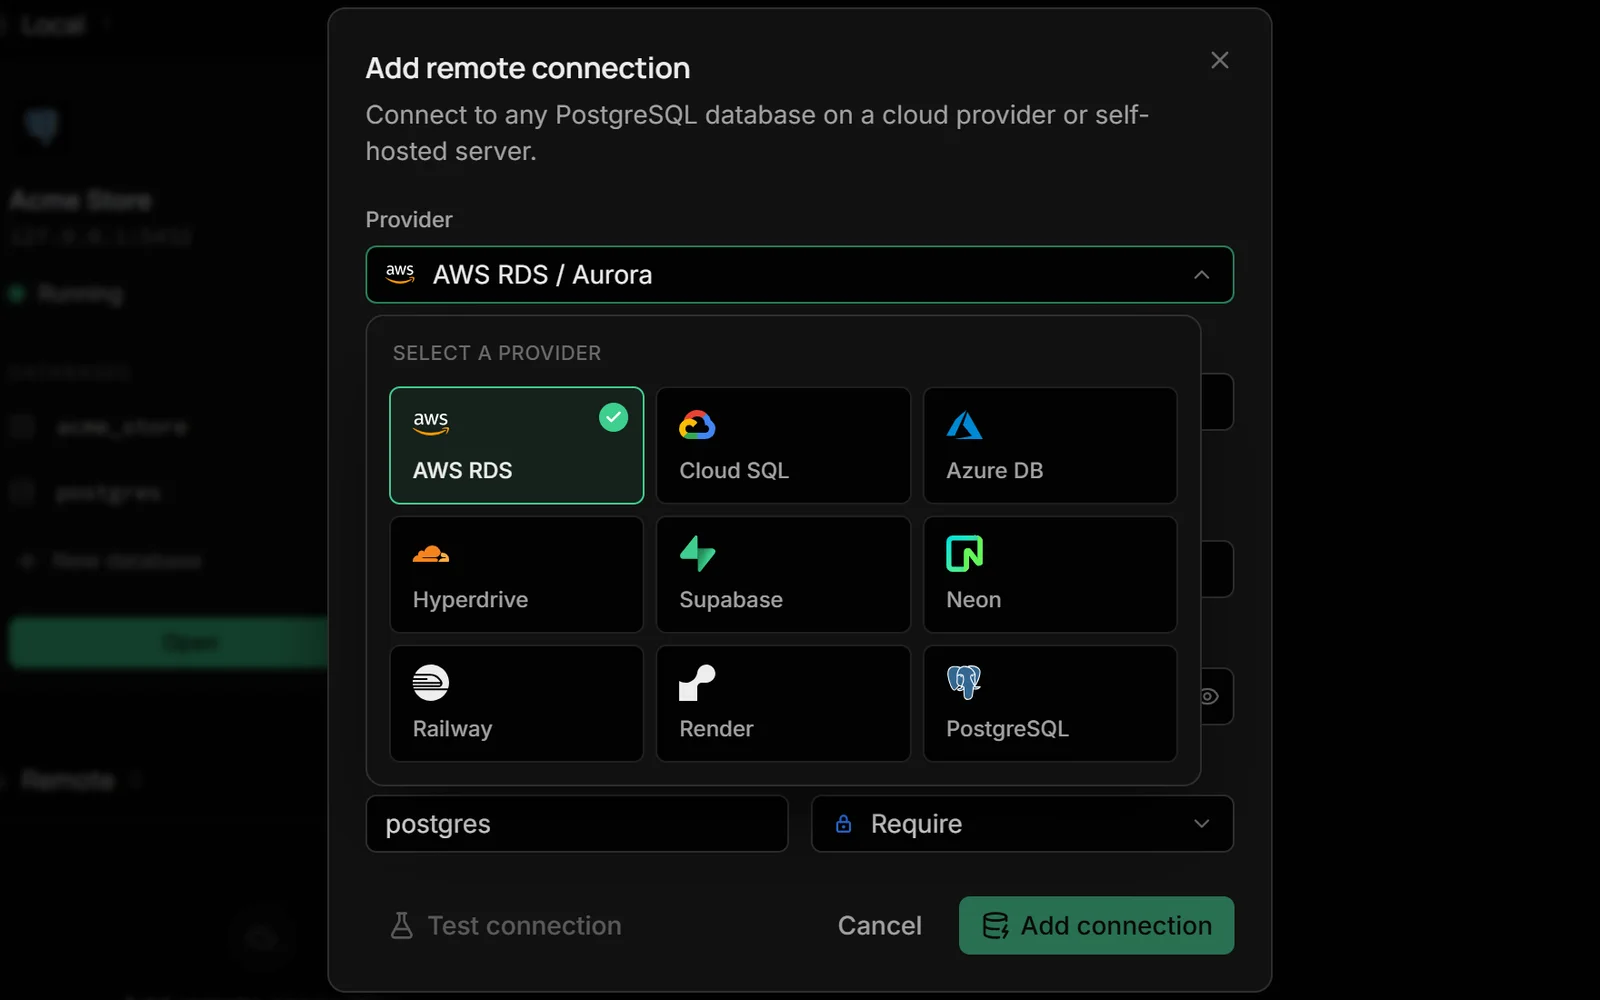
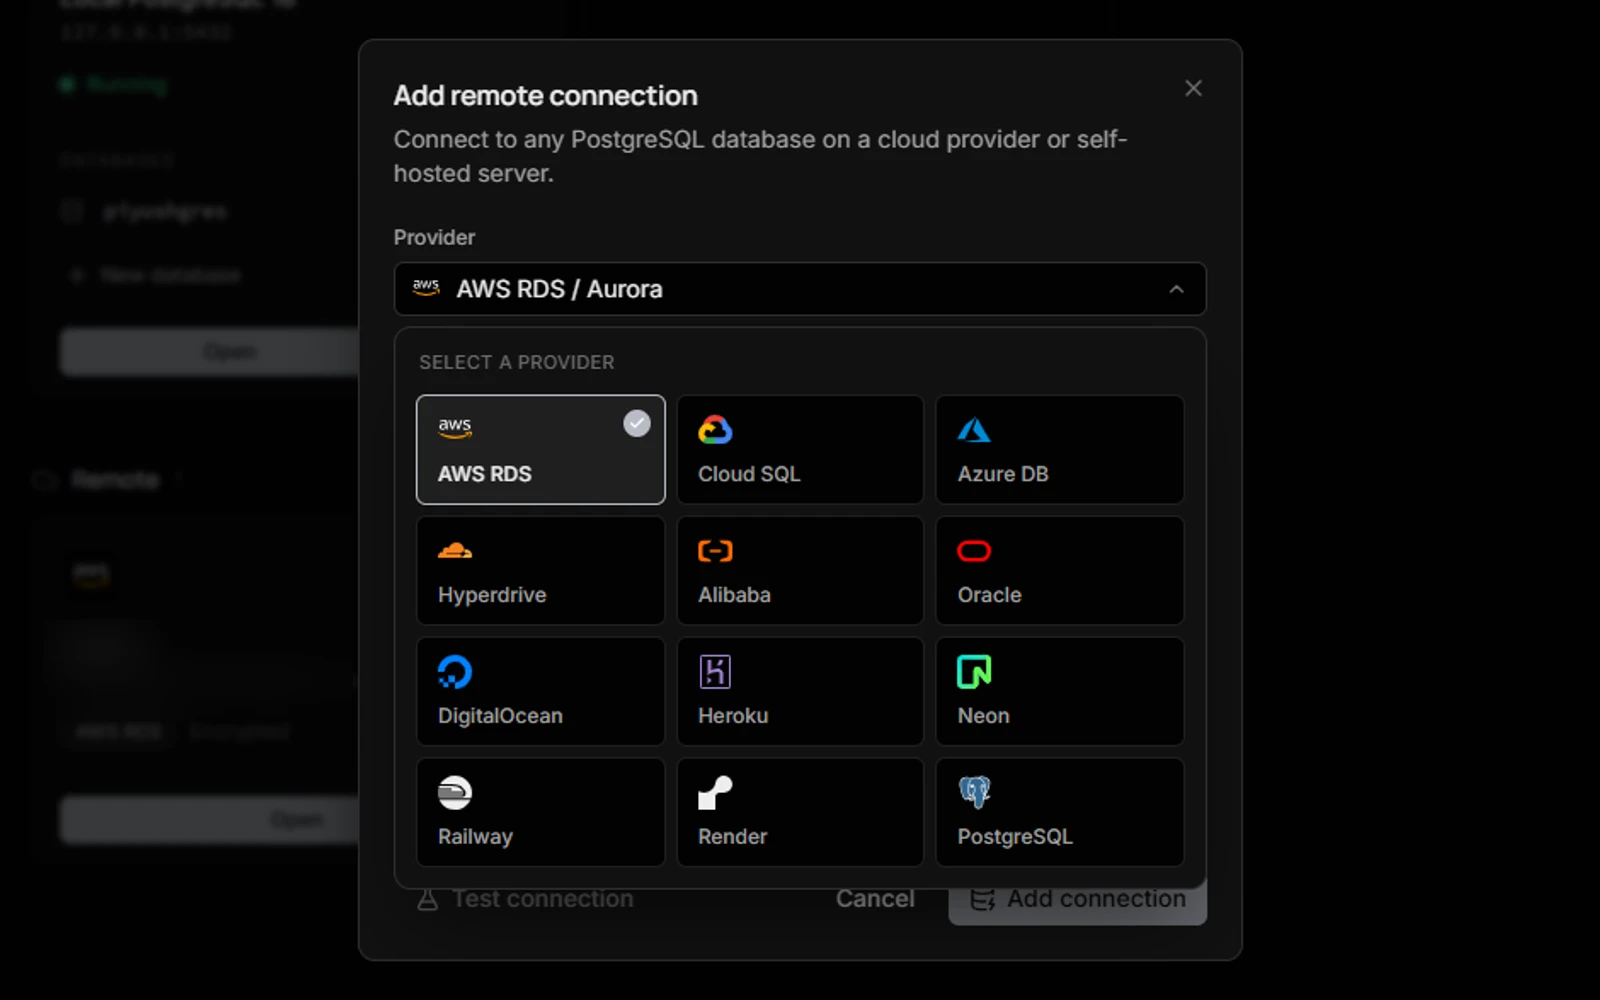
feat(web): Create tables and Database objects features; silver cloud screenshot
- Add two features to the showcase: Create tables (the table designer)
  and Database objects (functions, triggers, enums, sequences, policies
  and extensions), with their own icon colors and screenshots.
- Retake the cloud providers screenshot in the Silver theme, zoomed in
  on the provider picker.

diff --git a/apps/web/app/components/sections/FeaturesSection.tsx b/apps/web/app/components/sections/FeaturesSection.tsx
@@ -31,6 +31,8 @@ const TONE = {
   orange: "#fb923c",
   rose: "#fb7185",
   cyan: "#22d3ee",
+  teal: "#2dd4bf",
+  indigo: "#818cf8",
 } as const;
 
 interface Showcase {
@@ -58,7 +60,7 @@ const SHOWCASE: Showcase[] = [
       "No admin rights, no Docker",
     ],
     image: "/screens/create-server.webp",
-    alt: "A new local PostgreSQL 18 server finishing setup",
+    alt: "Setting up a new local PostgreSQL server",
   },
   {
     id: "table",
@@ -72,7 +74,21 @@ const SHOWCASE: Showcase[] = [
       "Paste from Excel or import CSV",
     ],
     image: "/screens/table-editor.webp",
-    alt: "The orders table filtered to refunded orders",
+    alt: "Browsing the orders table",
+  },
+  {
+    id: "create-table",
+    tone: TONE.teal,
+    icon: Columns,
+    label: "Create tables",
+    title: "Design tables without writing DDL",
+    description: "Name it, add columns, pick types and defaults. PostCompass writes the SQL.",
+    points: [
+      "Primary keys, defaults and foreign keys",
+      "Row Level Security on by default",
+    ],
+    image: "/screens/create-table.webp",
+    alt: "Designing a new invoices table",
   },
   {
     id: "relations",
@@ -129,6 +145,20 @@ const SHOWCASE: Showcase[] = [
     ],
     image: "/screens/er-diagram.webp",
     alt: "ER diagram highlighting the relationships of the orders table",
+  },
+  {
+    id: "database",
+    tone: TONE.indigo,
+    icon: Database,
+    label: "Database objects",
+    title: "Everything beyond tables",
+    description: "Functions, triggers, enums, sequences, policies and extensions in one panel.",
+    points: [
+      "Install extensions in one click",
+      "Create and edit objects with forms",
+    ],
+    image: "/screens/database-objects.webp",
+    alt: "Browsing the extensions available in a database",
   },
   {
     id: "cloud",
